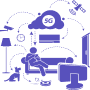
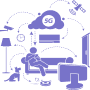
ui changes

diff --git a/index.html b/index.html
@@ -735,7 +735,7 @@
                                     xmlns="http://www.w3.org/2000/svg">
                                     <path
                                         d="M27.2771 59.9107C30.9018 57.8548 34.1588 55.363 36.9965 52.5841C43.1602 46.5597 47.319 39.1972 48.9849 31.9731C50.6393 24.8413 49.858 17.8531 46.1989 12.4593C45.1592 10.911 43.8552 9.49587 42.3042 8.22435C37.8581 4.60974 32.7687 2.88703 27.6447 2.84089C22.2623 2.805 16.8052 4.60974 11.98 8.03977C9.92349 9.50613 8.22891 11.1929 6.91346 13.0541C3.5243 17.812 2.49607 23.7185 3.61621 29.8966C4.74785 36.1671 8.0853 42.7247 13.4045 48.667C17.1039 52.8097 21.7568 56.655 27.2943 59.9005L27.2771 59.9107ZM26.4959 10.8494C30.5456 10.8494 34.222 12.3158 36.8701 14.6896C39.5297 17.0635 41.1726 20.3295 41.1726 23.9492C41.1726 27.5638 39.5297 30.8451 36.8701 33.2087C34.2105 35.5826 30.5514 37.049 26.4959 37.049C22.4461 37.049 18.7697 35.5826 16.1216 33.2087C13.462 30.8349 11.8191 27.5689 11.8191 23.9492C11.8191 20.3346 13.462 17.0532 16.1216 14.6896C18.7812 12.3158 22.4404 10.8494 26.4959 10.8494ZM34.7562 16.5764C32.648 14.6948 29.7127 13.5155 26.4959 13.5155C23.2618 13.5155 20.3437 14.6794 18.2355 16.5764C16.1274 18.4581 14.8062 21.078 14.8062 23.9492C14.8062 26.8358 16.1101 29.4403 18.2355 31.322C20.3437 33.2036 23.279 34.3829 26.4959 34.3829C29.7299 34.3829 32.648 33.219 34.7562 31.322C36.8644 29.4403 38.1856 26.8204 38.1856 23.9492C38.1798 21.0626 36.8816 18.4581 34.7562 16.5764ZM39.3574 54.4862C36.1406 57.624 32.4125 60.4388 28.2019 62.7204C27.6964 63.0588 26.9784 63.1049 26.404 62.7768C20.2001 59.2545 15.0015 55.0195 10.9 50.4256C5.25335 44.1039 1.68612 37.09 0.474068 30.3324C-0.760962 23.4826 0.393647 16.8994 4.21362 11.5262C5.72438 9.40871 7.64299 7.48092 9.99816 5.81461C15.3806 1.98979 21.5443 -0.0354209 27.6677 0.000468882C33.5729 0.0466129 39.3976 2.00004 44.4526 6.11711C46.2276 7.55783 47.7097 9.18825 48.9217 10.9776C53.0289 17.0122 53.9135 24.7234 52.1156 32.5166C50.3291 40.2278 45.9117 48.0671 39.3746 54.4606L39.3574 54.4862Z"
-                                        fill="#5851BC" />
+                                        fill="#7873C9" />
                                 </svg>
                             </span>
                             <div>
@@ -754,7 +754,7 @@
                                     xmlns="http://www.w3.org/2000/svg">
                                     <path
                                         d="M22.4593 29.6772C23.7163 31.0236 25.0895 32.2558 26.5627 33.3593C28.1561 34.5484 29.8446 35.6032 31.6111 36.5129L31.6845 36.461C31.8139 36.357 31.9606 36.2227 32.1159 36.0711C32.2713 35.9195 32.3748 35.7895 32.5129 35.6379L33.0005 35.0011C33.0435 34.9346 33.0926 34.8722 33.1472 34.8148C35.0069 32.3543 37.324 29.3957 41.052 31.1284C41.1294 31.1606 41.2044 31.1982 41.2764 31.2411C44.2968 33.0344 47.3949 34.7715 50.4412 36.5303C50.517 36.57 50.5892 36.6164 50.6569 36.6689C51.4115 37.1833 52.0173 37.8886 52.4131 38.7135C52.8045 39.5633 53.0048 40.4891 52.9999 41.4253V41.4253C52.9908 42.321 52.8542 43.2108 52.5943 44.0677C52.3207 44.9826 51.9444 45.8633 51.4724 46.6928C50.8902 47.7266 50.1323 48.6502 49.233 49.4219C48.3843 50.1486 47.4352 50.7483 46.4154 51.2023H46.3938C45.4675 51.622 44.5058 51.9584 43.5201 52.2073C42.5631 52.4523 41.5938 52.6461 40.6162 52.7877C39.121 53.0124 37.6046 53.0589 36.0986 52.9264C34.6096 52.7932 33.1387 52.5028 31.7103 52.06C30.2454 51.594 28.8187 51.0146 27.4429 50.3272C25.9413 49.5834 24.4781 48.7636 23.059 47.8711L22.6966 47.6458C21.3719 46.8184 19.9437 45.9131 18.4982 44.8431C15.5171 42.5737 12.7705 40.0093 10.3 37.1887C7.9039 34.4697 5.8063 31.4997 4.04341 28.33C2.47425 25.5362 1.31181 22.5312 0.591511 19.4064C-0.0560456 16.6279 -0.173176 13.7513 0.246321 10.9289C0.501006 9.25656 1.02875 7.63781 1.8083 6.1379C2.53608 4.74027 3.54037 3.50649 4.75967 2.51213C5.96778 1.53981 7.36574 0.832913 8.86312 0.437164C10.446 0.0313189 12.0874 -0.093297 13.713 0.0689554C14.1462 0.0969034 14.5651 0.235583 14.9298 0.471819C15.288 0.704252 15.5843 1.02099 15.7928 1.39451L21.6006 11.2668C22.1122 11.9293 22.4464 12.7122 22.5715 13.5411C22.6748 14.3655 22.5525 15.2026 22.2176 15.9626V15.9626C21.9411 16.5916 21.5619 17.1699 21.0958 17.6737C20.6347 18.1729 20.126 18.6256 19.5769 19.0252C19.2619 19.2981 18.865 19.5883 18.4508 19.8916L18.4119 19.9219C17.9203 20.2607 17.4544 20.6357 17.0182 21.0438C16.8478 21.1821 16.7144 21.3607 16.6299 21.5637C16.6299 21.6113 16.6687 21.5637 16.7119 21.6373L16.8586 21.8669C17.3461 22.6336 18.2868 24.0978 19.3612 25.6529C20.3067 27.0626 21.3415 28.4097 22.4593 29.6859V29.6772ZM24.8109 35.6985C23.2058 34.4948 21.7073 33.1542 20.332 31.6916C19.1103 30.3113 17.983 28.8495 16.9578 27.3164C15.8877 25.7656 14.9039 24.2364 14.3948 23.4177L14.2696 23.2314C14.0533 22.9644 13.8919 22.6569 13.7948 22.3267C13.6978 21.9965 13.6671 21.6503 13.7044 21.3081C13.8188 20.3941 14.2587 19.5525 14.9428 18.9386C15.4875 18.42 16.0718 17.9449 16.6903 17.5177V17.5177C17.0355 17.2665 17.3634 17.0239 17.6611 16.7683L17.7517 16.699C18.1706 16.4049 18.5568 16.0665 18.9038 15.6897C19.1526 15.4226 19.3566 15.1169 19.5079 14.7843C19.6324 14.5137 19.6816 14.2143 19.6503 13.9179C19.5859 13.5815 19.4374 13.267 19.2188 13.0039C19.1655 12.9429 19.1192 12.876 19.0807 12.8046L13.3333 2.97564C12.087 2.86185 10.8305 2.96295 9.61822 3.27454C8.51496 3.5639 7.48547 4.0851 6.59781 4.80368C5.68808 5.54894 4.93805 6.47138 4.39291 7.51543C3.7674 8.72883 3.34466 10.0371 3.1416 11.3881C2.77797 13.84 2.88046 16.3388 3.44364 18.7523C4.11091 21.6048 5.18028 24.3471 6.61938 26.8962C8.27601 29.8727 10.2494 32.6599 12.5049 35.209C14.8457 37.8796 17.4477 40.3075 20.2716 42.4563C21.5661 43.4396 22.9727 44.3103 24.2672 45.116L24.634 45.3499C25.9624 46.1867 27.3319 46.9559 28.7374 47.6545C29.9759 48.2742 31.2615 48.7942 32.582 49.2096C33.8129 49.5976 35.0814 49.8531 36.3661 49.972C37.6465 50.0824 38.9354 50.0416 40.2063 49.8507C41.0779 49.7278 41.9422 49.5572 42.7952 49.3396C43.6137 49.1341 44.4122 48.8558 45.1814 48.5079H45.2202C45.9873 48.1666 46.7022 47.7173 47.3431 47.1737C47.9835 46.6231 48.5237 45.965 48.9396 45.2286C49.3011 44.5946 49.5906 43.9218 49.8026 43.223C49.9808 42.6341 50.0766 42.0233 50.0874 41.4079C50.0983 40.9093 49.9965 40.4146 49.7897 39.9611C49.6152 39.5931 49.3455 39.2789 49.0087 39.0514C46.6743 37.375 42.5752 35.3303 39.9474 33.8055L39.8223 33.7405L39.8741 33.7665L39.8223 33.7405C38.2042 33.0171 36.7027 34.9318 35.4815 36.5476L35.4082 36.6516C35.1968 36.9331 34.9767 37.206 34.8041 37.4399C34.6315 37.6739 34.3726 37.9598 34.2 38.133C33.9676 38.366 33.7212 38.5844 33.4622 38.7872C33.17 39.0086 32.8492 39.1893 32.5086 39.3243C32.1863 39.4516 31.8405 39.5078 31.4946 39.4889C31.1969 39.4686 30.905 39.3968 30.6316 39.2767L30.4936 39.216C28.5037 38.2068 26.6027 37.0301 24.8109 35.6985V35.6985Z"
-                                        fill="#5851BC" />
+                                        fill="#7873C9" />
                                 </svg>
 
                             </span>
@@ -774,7 +774,7 @@
                                     xmlns="http://www.w3.org/2000/svg">
                                     <path
                                         d="M3.02713 0H50.0687C50.8728 0.0101104 51.6414 0.422261 52.208 1.14717C52.7746 1.87208 53.0936 2.85138 53.0958 3.87292V44.9423C53.1003 45.726 52.9162 46.4927 52.5682 47.1397C52.5056 47.347 52.4082 47.5345 52.2828 47.6891C52.1985 47.7915 52.1022 47.8767 51.9974 47.9418C51.4518 48.5266 50.761 48.8477 50.0471 48.8482H3.02713C2.22673 48.8382 1.46134 48.4298 0.895343 47.7108C0.329347 46.9918 0.00788629 46.0195 0 45.0028V3.87292C0.00223546 2.85138 0.3212 1.87208 0.8878 1.14717C1.4544 0.422261 2.22301 0.0101104 3.02713 0V0ZM2.89739 43.3108L18.8028 22.3146L2.89739 5.2408V43.3108ZM21.1985 24.935L4.20338 45.8433H48.7454L32.507 24.935L27.7501 29.9945C27.5405 30.2157 27.2766 30.3367 27.0041 30.3367C26.7317 30.3367 26.4678 30.2157 26.2582 29.9945L21.1985 24.935ZM34.8638 22.2762L50.1984 43.4811V5.05402L34.8638 22.2762ZM4.39366 2.97198L26.9587 26.204L48.5292 2.97198H4.39366Z"
-                                        fill="#5851BC" />
+                                        fill="#7873C9" />
                                 </svg>
                             </span>
                             <div>
@@ -799,7 +799,7 @@
                                     xmlns="http://www.w3.org/2000/svg">
                                     <path
                                         d="M36.6402 1.97225C46.5216 6.06811 53 15.7229 53 26.4783C53 33.8025 50.0326 40.4319 45.2406 45.2312C40.4444 50.0306 33.8194 53 26.5 53C19.1849 53 12.5599 50.0306 7.76367 45.2312C2.96745 40.4276 0 33.7982 0 26.4783C0 15.8049 6.62931 5.84799 16.4935 1.79961C22.6009 -0.703655 30.5587 -0.54828 36.6402 1.97225ZM22.4241 25.7705C22.7562 25.408 23.1573 25.0972 23.5929 24.8599V13.3233C23.5929 12.145 24.5461 11.1955 25.7193 11.1955C26.8968 11.1955 27.85 12.1493 27.85 13.3233V24.8599C28.6264 25.2785 29.2647 25.9173 29.6831 26.6941H38.4302C39.6077 26.6941 40.5566 27.648 40.5566 28.8219C40.5566 29.9959 39.6034 30.9497 38.4302 30.9497H29.6874C28.9283 32.3653 27.4403 33.3278 25.7236 33.3278C24.3736 33.3278 23.1659 32.7322 22.3421 31.7913C20.811 30.0433 20.8843 27.4365 22.4241 25.7705ZM42.2301 11.1523C31.2531 0.168171 12.7367 3.27136 6.31445 17.1084C4.99463 19.9569 4.25708 23.1291 4.25708 26.474C4.25708 32.6243 6.74577 38.1876 10.7699 42.2144C14.7941 46.2412 20.3581 48.7358 26.5 48.7358C32.6419 48.7358 38.2059 46.2412 42.2301 42.2144C46.2542 38.1876 48.7472 32.62 48.7472 26.474C48.7472 22.9867 47.945 19.685 46.5173 16.7458C45.4304 14.5231 43.9812 12.9046 42.2301 11.1523Z"
-                                        fill="#5851BC" />
+                                        fill="#7873C9" />
                                 </svg>
                             </span>
                             <div>

diff --git a/css/style.css b/css/style.css
@@ -66,8 +66,8 @@ input {
 }
 
 .common-btn {
-  background-color: #5851BC;
-  border: 1px solid #5851BC;
+  background-color: #7873C9;
+  border: 1px solid #7873C9;
   color: #ffffff;
   min-width: 150px;
   height: 50px;
@@ -82,7 +82,7 @@ input {
   font-weight: 600;
 }
 .common-btn:hover {
-  background-color: #5851BC;
+  background-color: #7873C9;
   color: #ffffff;
   transition: all 0.5s;
 }
@@ -106,7 +106,7 @@ input {
   display: flex;
   justify-content: center;
   align-items: center;
-  color: #5851BC;
+  color: #7873C9;
   border: 1px solid #ffffff;
   font-weight: 700;
   transition: all 0.5s;
@@ -118,7 +118,7 @@ input {
 }
 
 .cmmn-head h6 {
-  color: #5851BC;
+  color: #7873C9;
   text-transform: uppercase;
 }
 .cmmn-head h2 {
@@ -182,7 +182,7 @@ header nav ul .nav-item::after {
   display: block;
   width: 0;
   height: 2px;
-  background-color: #5851BC;
+  background-color: #7873C9;
   transition: width 0.2s;
   bottom: -8px;
   position: absolute;
@@ -199,7 +199,7 @@ header nav ul .nav-item:hover::after {
   width: 100%;
 }
 header nav ul .nav-item:hover .nav-link {
-  color: #5851BC;
+  color: #7873C9;
 }
 header .right-menu ul {
   display: flex;
@@ -224,7 +224,7 @@ header .right-menu ul li a svg {
   position: absolute;
   height: 3px;
   width: 70%;
-  background: #5851BC;
+  background: #7873C9;
   border-radius: 3px;
   opacity: 1;
   left: 25%;
@@ -292,13 +292,13 @@ header .right-menu ul li a svg {
 }
 
 #cssmenu ul li a {
-  color: #5851BC;
+  color: #7873C9;
   padding: 10px 15px;
-  border-bottom: 1px solid #5851BC;
+  border-bottom: 1px solid #7873C9;
   display: block;
 }
 #cssmenu ul li:hover a {
-  color: #5851BC;
+  color: #7873C9;
 }
 
 @media (max-width: 1440px) {
@@ -308,7 +308,7 @@ header .right-menu ul li a svg {
   }
 }
 .banner-wrap {
-  background-color: #5851BC;
+  background: linear-gradient(180deg, #7873C9 0%, rgba(88, 81, 188, 0.8) 100%);
   padding: 120px 0 130px 0;
   position: relative;
 }
@@ -352,7 +352,7 @@ header .right-menu ul li a svg {
   }
 }
 .contact-wrap {
-  background-color: #5851BC;
+  background-color: #756FC6;
   padding: 60px 0;
   position: relative;
 }
@@ -517,7 +517,7 @@ header .right-menu ul li a svg {
   background-color: #ffffff;
 }
 .service-wrap .content-inner .content-front h5, .service-wrap .content-inner .content-back h5 {
-  color: #5851BC;
+  color: #7873C9;
   padding-top: 20px;
 }
 .service-wrap .content-inner .content-front span, .service-wrap .content-inner .content-back span {
@@ -612,7 +612,7 @@ header .right-menu ul li a svg {
   height: 50px;
   width: 50px;
   border-radius: 50px;
-  background-color: #5851BC;
+  background-color: #7873C9;
   display: flex;
   align-items: center;
   justify-content: center;
@@ -696,7 +696,7 @@ footer ul li a {
 }
 footer ul li a:hover {
   transform: translateX(7px);
-  color: #5851BC;
+  color: #7873C9;
 }
 footer .footer-form {
   display: flex;
@@ -741,8 +741,7 @@ footer .footer-form button {
   }
 }
 .mainTechnologies {
-  background-color: #5851BC;
-  background-image: url("../images/bg.png");
+  background-image: url("../images/bg-service.png");
   background-repeat: no-repeat;
   background-size: cover;
   padding: 60px 0;
@@ -826,7 +825,7 @@ footer .footer-form button {
 }
 .filters ul li.active {
   background-color: #ffffff;
-  color: #5851BC;
+  color: #7873C9;
 }
 
 @media (max-width: 767px) {

diff --git a/scss/_inner.scss b/scss/_inner.scss
@@ -1,5 +1,5 @@
 .banner-wrap{
-    background-color: $main-color;
+    background: linear-gradient(180deg, #7873C9 0%, rgba(88, 81, 188, 0.8) 100%);
     padding: 120px 0 130px 0;
     position: relative;
     .banner-content{
@@ -57,7 +57,7 @@
     }
 }
 .contact-wrap{
-    background-color: #5851BC;
+    background-color: #756FC6;
     padding: 60px 0;
     position: relative;
     h2, h4{
@@ -337,7 +337,7 @@
                 height: 50px;
                 width: 50px;
                 border-radius: 50px;
-                background-color: #5851BC;
+                background-color: #7873C9;
                 display: flex;
                 align-items: center;
                 justify-content: center;

diff --git a/scss/_technologies.scss b/scss/_technologies.scss
@@ -1,6 +1,5 @@
 .mainTechnologies {
-    background-color: #5851BC;
-    background-image: url('../images/bg.png');
+    background-image: url('../images/bg-service.png');
     background-repeat: no-repeat;
     background-size: cover;
     padding: 60px 0;
@@ -92,7 +91,7 @@
             cursor: pointer;
             &.active{
                 background-color: #ffffff;
-                color: #5851BC;
+                color: #7873C9;
             }
         }
     }

diff --git a/scss/_footer.scss b/scss/_footer.scss
@@ -49,7 +49,7 @@ footer{
                 transition: all 0.5s;
                 &:hover{
                     transform: translateX(7px);
-                    color: #5851BC;
+                    color: #7873C9;
                 }
             }
         }

diff --git a/scss/_common.scss b/scss/_common.scss
@@ -1,5 +1,5 @@
 // variable
-$main-color:#5851BC;
+$main-color:#7873C9;
 $white-color:#ffffff;
 $black-color:#111111;
 $body-color: #000000;
@@ -29,6 +29,7 @@ padding: 0;
 
 a{
     text-decoration: none;
+
 }
 
 
